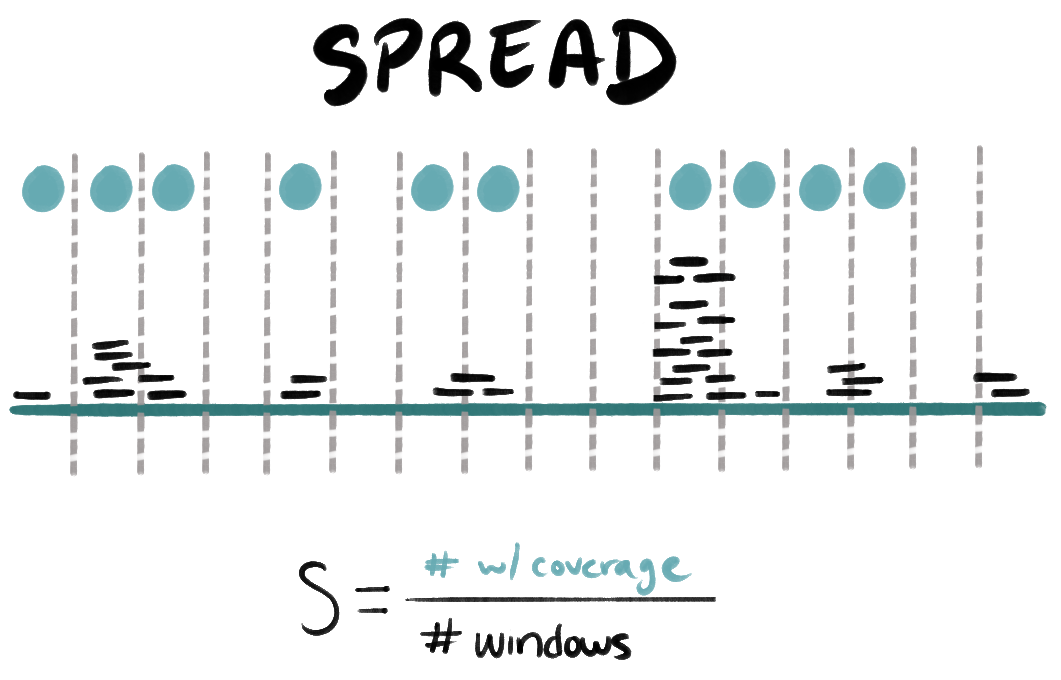
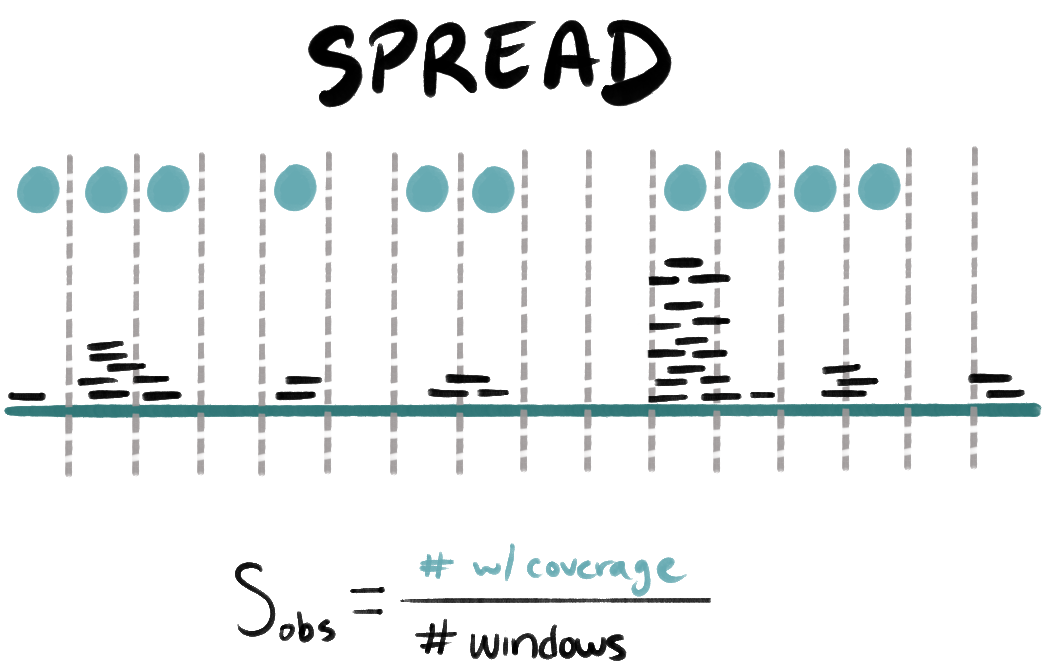
update images and threshold guidelines in docs

diff --git a/anvio/docs/artifacts/discov-stats.md b/anvio/docs/artifacts/discov-stats.md
@@ -52,7 +52,7 @@ The auxiliary database stores per-nucleotide coverage values up to a maximum of 
 
 We divide each sequence (contig or genome) into non-overlapping windows to compute both _S_ and _E_. The window size affects the sensitivity of these metrics. We want the windows to be long enough to capture meaningful clusters of mapped reads (hence, longer than typical read lengths), but short enough to effectively assess the distribution of these mapped reads along the sequence.
 
-![Schematic for Spread](../../images/discov-spread.png){:.center-img .width-50}
+
 
 There are two strategies for setting the window length:
 
@@ -76,6 +76,8 @@ The observed spread is the proportion of windows that contain at least one base 
 
 _S_obs_ = # of windows with coverage / # of windows
 
+![Schematic for Spread](../../images/discov-spread.png){:.center-img .width-50}
+
 But the proportion of covered windows depends heavily on how many reads map to the sequence. A handful of reads can only cover a handful of windows, even if the sequence is truly present in the sample. To account for this, we compare the observed spread to the spread we would expect if the same reads were placed randomly along the sequence:
 
 _S_exp_ = 1 − e^(−(_B_ + _N_·_w_) / _G_)
@@ -97,6 +99,8 @@ Evenness is computed from the mean coverage depth of each window that has nonzer
 
 _E_ = 1 / (1 + CV)
 
+![Schematic for Evenness](../../images/discov-evenness.png){:.center-img .width-50}
+
 When all covered windows have the same mean depth, CV = 0 and _E_ = 1. The more the depths vary across windows, the closer _E_ gets to 0.
 
 {:.warning}
@@ -116,7 +120,11 @@ The geometric formula requires a sequence to have both high _S_ and high _E_ to 
 
 You can use discov to decide if a given sequence is present or absent in a metagenome sample by setting a threshold score above which it is considered present. Where you draw the line depends on how confident you want to be (or how much you want to avoid false positives).
 
-You can use DisCov to decide if a given sequence is present or absent in a metagenome sample by setting a threshold score above which it is considered present. Where you draw the line depends on how confident you want to be (or how much you want to avoid false positives). A rough guideline based on insights during testing: for [linear DisCov](https://github.com/merenlab/anvio/pull/2563#issuecomment-4422260917), don't use a threshold any lower than ~0.6, and for [geometric DisCov](https://github.com/merenlab/anvio/pull/2563#issuecomment-4544106000), don't use any threshold lower than ~0.5.
+To help you get an intuition on how to set the threshold, you can take a look at the distribution of discov scores in our test dataset. We manually-validated present or absent genomes across metagenomes that were randomly subsampled, and computed discov for each genome in each subsample using default parameters, or when changing the S-E formula to linear. Below, each dot represents one genome in one subsample (there are 25 total metagenomes each with 20 subsamples keeping 0.1% to 100% of reads, and each metagenome has ~5 present and ~5 absent genomes associated wth it), and the dashed line indicates the discov threshold with the best precision and recall (highest F1 score) in each case.
+
+![Discov Distributions](../../images/discov_violin_plots.png){:.center-img .width-50}
+
+Some rough guidelines from this data: discov thresholds for determining presence should always be set above 0.5. With all default parameters, a threshold around 0.6 is good for avoiding most false positives. The linear formula is more forgiving/ambiguous for mid-range spread and evenness values, and therefore the threshold should generally be set higher when using the linear version than when using the geometric formula.
 
 ## More resources
 
